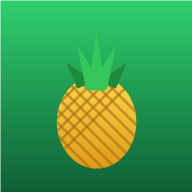
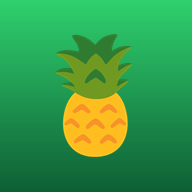
feat: Insights por periodo (7/14/30/60/90/tudo/personalizado) + icone abacaxi Noto (v1.9.0)
- chips de periodo + range personalizado; KPIs/graficos/mercados/campeoes/texto recalculam pelo periodo
- monthBuckets limita as barras ao periodo escolhido
- icone do app agora e o abacaxi Noto (biblioteca) composto no fundo verde
- sw cache v12

Changed region(s): [[0.2812, 0.1562, 0.7188, 0.9062], [0.0, 0.0, 1.0, 1.0]]

diff --git a/js/app.js b/js/app.js
@@ -5,9 +5,17 @@
   const $ = (s, r = document) => r.querySelector(s);
   const $$ = (s, r = document) => [...r.querySelectorAll(s)];
 
-  const APP_VERSION = "1.8.0";
-  const VERSION_NOTES = "Layout fixo + preço com máscara + ícone 🍍";
+  const APP_VERSION = "1.9.0";
+  const VERSION_NOTES = "Insights por período + ícone 🍍 novo";
   const CHANGELOG = [
+    {
+      v: "1.9.0",
+      itens: [
+        "Nos <b>Insights</b>, agora dá pra escolher o <b>período</b>: 7, 14, 30, 60, 90 dias, tudo ou <b>personalizado</b> (você escolhe as datas) 📅",
+        "Tudo (total, gráficos, mercados, campeões) recalcula pro período escolhido",
+        "Ícone do abacaxi 🍍 mais bonito (emoji da biblioteca)"
+      ]
+    },
     {
       v: "1.8.0",
       itens: [
@@ -378,56 +386,93 @@
   }
 
   /* =========================================================
-     TELA: INSIGHTS
+     TELA: INSIGHTS (com período)
   ========================================================= */
-  function renderInsights() {
-    const compras = S.raw.compras;
-    if (!compras.length) { $("#insEmpty").classList.remove("hidden"); $("#insContent").classList.add("hidden"); return; }
-    $("#insEmpty").classList.add("hidden"); $("#insContent").classList.remove("hidden");
+  const INS_PERIODS = [{ v: 7, l: "7 dias" }, { v: 14, l: "14 dias" }, { v: 30, l: "30 dias" }, { v: 60, l: "60 dias" }, { v: 90, l: "90 dias" }, { v: "all", l: "Tudo" }, { v: "custom", l: "Personalizado" }];
+  let insPeriod = 30, insCustom = null;
 
-    const total = S.grandTotal(), n = compras.length;
+  function insRange() {
+    const today = todayISO();
+    if (insPeriod === "all") return { from: "0000-01-01", to: today, label: "Desde o começo" };
+    if (insPeriod === "custom" && insCustom && insCustom.from && insCustom.to) {
+      const a = insCustom.from <= insCustom.to ? insCustom.from : insCustom.to;
+      const b = insCustom.from <= insCustom.to ? insCustom.to : insCustom.from;
+      return { from: a, to: b, label: `${dLabel(a)} a ${dLabel(b)}` };
+    }
+    const d = new Date(); d.setDate(d.getDate() - (insPeriod - 1));
+    return { from: d.toISOString().slice(0, 10), to: today, label: `Últimos ${insPeriod} dias` };
+  }
+  function monthBuckets(fromISO, toISO) {
+    const endD = new Date(toISO + "T00:00:00"), fromYm = fromISO.slice(0, 7), out = [];
+    for (let i = 5; i >= 0; i--) {
+      const d = new Date(endD.getFullYear(), endD.getMonth() - i, 1);
+      const ym = d.getFullYear() + "-" + String(d.getMonth() + 1).padStart(2, "0");
+      if (ym >= fromYm) out.push(ym);
+    }
+    return out;
+  }
+  function renderPeriodChips() {
+    $("#insPeriodChips").innerHTML = INS_PERIODS.map(p =>
+      `<button class="chip ${p.v === insPeriod ? "active" : ""}" data-p="${p.v}">${p.l}</button>`).join("");
+    $("#insCustomRow").classList.toggle("hidden", insPeriod !== "custom");
+  }
+
+  function renderInsights() {
+    const all = S.raw.compras;
+    if (!all.length) { $("#insEmpty").classList.remove("hidden"); $("#insContent").classList.add("hidden"); return; }
+    $("#insEmpty").classList.add("hidden"); $("#insContent").classList.remove("hidden");
+    renderPeriodChips();
+
+    const rg = insRange();
+    $("#insPeriodLbl").textContent = rg.label;
+    const fil = all.filter(c => c.data >= rg.from && c.data <= rg.to);
+
+    const total = fil.reduce((s, c) => s + c.total, 0), n = fil.length;
     $("#insTotal").textContent = moneyShort(total);
     $("#insCount").textContent = n;
     $("#insAvg").textContent = moneyShort(n ? total / n : 0);
 
-    // gasto por mês (últimos 6)
-    const series = S.monthlySeries(6);
-    const maxV = Math.max(1, ...series.map(s => s.total));
-    $("#insMonths").innerHTML = series.map(s => {
-      const h = s.total ? Math.max(Math.round(s.total / maxV * 100), 5) : 0;
-      return `<div class="bar-col">
-        <span class="bar-val">${s.total ? moneyShort(s.total) : ""}</span>
+    // gasto por mês (dentro do período)
+    const monT = monthBuckets(rg.from, rg.to).map(ym => ({ ym, total: fil.filter(c => c.data.slice(0, 7) === ym).reduce((s, c) => s + c.total, 0) }));
+    const maxV = Math.max(1, ...monT.map(m => m.total));
+    $("#insMonths").innerHTML = monT.map(m => {
+      const h = m.total ? Math.max(Math.round(m.total / maxV * 100), 5) : 0;
+      return `<div class="bar-col"><span class="bar-val">${m.total ? moneyShort(m.total) : ""}</span>
         <div class="bar-track"><div class="bar-fill" style="height:${h}%"></div></div>
-        <span class="bar-lbl">${mShort(s.ym)}</span>
-      </div>`;
+        <span class="bar-lbl">${mShort(m.ym)}</span></div>`;
     }).join("");
 
-    // por mercado
-    const ms = S.mercadoStats().slice(0, 6);
+    // por mercado (período)
+    const mmap = {};
+    fil.forEach(c => { mmap[c.mercado] = (mmap[c.mercado] || 0) + c.total; });
+    const ms = Object.keys(mmap).map(k => ({ nome: k, total: mmap[k] })).sort((a, b) => b.total - a.total).slice(0, 6);
     const maxM = Math.max(1, ...ms.map(m => m.total));
-    $("#insMarkets").innerHTML = ms.map(m => `<div class="hbar-row">
+    $("#insMarkets").innerHTML = ms.length ? ms.map(m => `<div class="hbar-row">
       <span class="hbar-name">${esc(m.nome)}</span>
       <div class="hbar-track"><div class="hbar-fill" style="width:${Math.max(Math.round(m.total / maxM * 100), 6)}%"></div></div>
-      <span class="hbar-val">${money(m.total)}</span>
-    </div>`).join("");
+      <span class="hbar-val">${money(m.total)}</span></div>`).join("") : `<p class="ins-none">Nada nesse período.</p>`;
 
-    // você compra muito
-    const tops = S.topItens(5);
-    $("#insTop").innerHTML = tops.map(t => {
+    // top itens (período)
+    const imap = {};
+    fil.forEach(c => c.itens.forEach(it => { const k = S.norm(it.nome); if (!k) return; const o = imap[k] || (imap[k] = { nome: it.nome, vezes: 0, gasto: 0 }); o.vezes++; o.gasto += (it.preco || 0) * it.qtd; }));
+    const tops = Object.values(imap).sort((a, b) => b.vezes - a.vezes || b.gasto - a.gasto).slice(0, 5);
+    $("#insTop").innerHTML = tops.length ? tops.map(t => {
       const em = S.matchEmoji(t.nome);
       return `<div class="top-row"><span class="top-emoji">${emojiHTML(em)}</span>
-        <span class="top-name">${esc(t.nome)}</span>
-        <span class="top-count">${t.vezes}×</span>
+        <span class="top-name">${esc(t.nome)}</span><span class="top-count">${t.vezes}×</span>
         <span class="top-gasto">${t.gasto ? money(t.gasto) : ""}</span></div>`;
-    }).join("");
+    }).join("") : `<p class="ins-none">Nada nesse período.</p>`;
 
-    // insights em texto
+    // texto
     const bits = [];
-    const best = [...series].sort((a, b) => b.total - a.total)[0];
-    if (best && best.total) bits.push(`📈 Maior gasto foi em <b>${ymLabel(best.ym)}</b> (${money(best.total)}).`);
-    if (ms[0]) bits.push(`🏪 Você mais compra no <b>${esc(ms[0].nome)}</b> — ${money(ms[0].total)} no total.`);
-    if (tops[0]) bits.push(`🏆 Campeão da lista: <b>${esc(tops[0].nome)}</b>, ${tops[0].vezes}×.`);
-    bits.push(`🗓️ Este mês (${ymLabel(thisYM())}): <b>${money(S.monthTotal(thisYM()))}</b>.`);
+    if (!n) bits.push("Nenhuma compra nesse período. 🤷");
+    else {
+      const best = [...monT].sort((a, b) => b.total - a.total)[0];
+      if (best && best.total) bits.push(`📈 Maior gasto em <b>${ymLabel(best.ym)}</b> (${money(best.total)}).`);
+      if (ms[0]) bits.push(`🏪 Você mais gastou no <b>${esc(ms[0].nome)}</b> — ${money(ms[0].total)}.`);
+      if (tops[0]) bits.push(`🏆 Item campeão: <b>${esc(tops[0].nome)}</b>, ${tops[0].vezes}×.`);
+      bits.push(`🧾 Foram <b>${n}</b> ${n === 1 ? "compra" : "compras"}, total <b>${money(total)}</b>.`);
+    }
     $("#insText").innerHTML = bits.map(b => `<p>${b}</p>`).join("");
   }
 
@@ -713,6 +758,17 @@
     $("#histFilters").addEventListener("click", onHistClick);
     $("#histList").addEventListener("click", onHistClick);
     $("#mercList").addEventListener("click", onMercClick);
+    // insights: período
+    $("#insPeriodChips").addEventListener("click", e => {
+      const c = e.target.closest(".chip"); if (!c) return;
+      const v = c.dataset.p; insPeriod = (v === "all" || v === "custom") ? v : parseInt(v, 10);
+      if (insPeriod === "custom") {
+        if (!$("#insTo").value) $("#insTo").value = todayISO();
+        if (!$("#insFrom").value) { const d = new Date(); d.setDate(d.getDate() - 29); $("#insFrom").value = d.toISOString().slice(0, 10); }
+      }
+      renderInsights();
+    });
+    $("#insApply").addEventListener("click", () => { insCustom = { from: $("#insFrom").value, to: $("#insTo").value }; insPeriod = "custom"; renderInsights(); });
     // compra detalhe
     $("#cmDelete").addEventListener("click", () => {
       if (curCompra && confirm("Excluir esta compra do histórico?")) { S.deleteCompra(curCompra); closeModal("#compraModal"); renderAll(); toast("Compra excluída"); }

diff --git a/index.html b/index.html
@@ -111,6 +111,14 @@
         <p class="empty-sub">Finalize algumas compras pra ver seus gráficos 📊</p>
       </div>
       <div id="insContent">
+        <div id="insPeriodChips" class="chips"></div>
+        <div id="insCustomRow" class="ins-custom hidden">
+          <input id="insFrom" class="field-input" type="date" aria-label="De" />
+          <span>até</span>
+          <input id="insTo" class="field-input" type="date" aria-label="Até" />
+          <button id="insApply" type="button" class="invite-btn invite-btn-go">Ver</button>
+        </div>
+        <p id="insPeriodLbl" class="ins-period-lbl"></p>
         <div class="ins-kpis">
           <div class="ins-kpi"><span class="ins-kpi-num" id="insTotal">R$ 0</span><span class="ins-kpi-lbl">Total gasto</span></div>
           <div class="ins-kpi"><span class="ins-kpi-num" id="insCount">0</span><span class="ins-kpi-lbl">Compras</span></div>

diff --git a/css/styles.css b/css/styles.css
@@ -267,6 +267,12 @@ body.locked { position: fixed; left: 0; right: 0; width: 100%; overflow: hidden;
 .merc-stat span { font-size: 11px; color: var(--muted); }
 
 /* ===== INSIGHTS ===== */
+.ins-custom { display: flex; align-items: center; gap: 8px; margin-bottom: 10px; }
+.ins-custom .field-input { flex: 1; padding: 11px 12px; font-size: 14px; }
+.ins-custom span { font-size: 13px; color: var(--muted); flex: none; }
+.ins-custom .invite-btn { padding: 0 16px; height: 44px; }
+.ins-period-lbl { margin: 0 2px 12px; font-size: 13px; color: var(--muted); font-weight: 600; }
+.ins-period-lbl:empty { display: none; }
 .ins-kpis { display: grid; grid-template-columns: repeat(3, 1fr); gap: 10px; margin-bottom: 14px; }
 .ins-kpi { background: linear-gradient(165deg, var(--card2), var(--card)); border: 1px solid var(--line); border-radius: 16px; padding: 14px 8px; text-align: center; box-shadow: 0 6px 18px rgba(0,0,0,.2); }
 .ins-kpi-num { display: block; font-size: 19px; font-weight: 800; letter-spacing: -.5px; }
@@ -296,6 +302,7 @@ body.locked { position: fixed; left: 0; right: 0; width: 100%; overflow: hidden;
 .top-gasto { font-size: 13px; font-weight: 700; color: var(--muted); min-width: 54px; text-align: right; }
 .ins-text { display: flex; flex-direction: column; gap: 8px; }
 .ins-text p { margin: 0; font-size: 14px; line-height: 1.5; color: var(--text); background: var(--card); border: 1px solid var(--line); border-radius: 14px; padding: 12px 14px; }
+.ins-none { margin: 0; font-size: 13.5px; color: var(--muted); text-align: center; padding: 8px 0; }
 
 /* ===== MODAIS / SHEETS ===== */
 .modal { position: fixed; inset: 0; z-index: 80; display: flex; align-items: flex-end; justify-content: center;

diff --git a/sw.js b/sw.js
@@ -1,5 +1,5 @@
 /* Service Worker — network-first (sempre busca a versão nova; cache só p/ offline) */
-const CACHE = "mylist-v11";
+const CACHE = "mylist-v12";
 const EMOJIS = [
   "abacate","abacaxi","aceno","alho","bacon","batata","biscoito","brilho","brocolis","burrito",
   "cachorroquente","cafe","carrinho","cebola","cenoura","cereja","cha","check","cogumelo","donut",